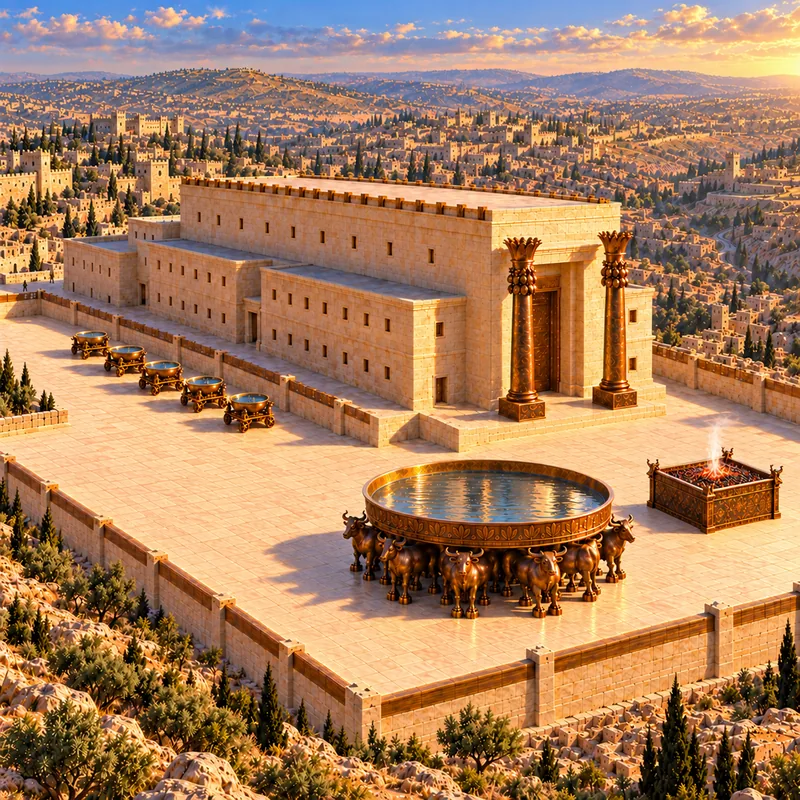
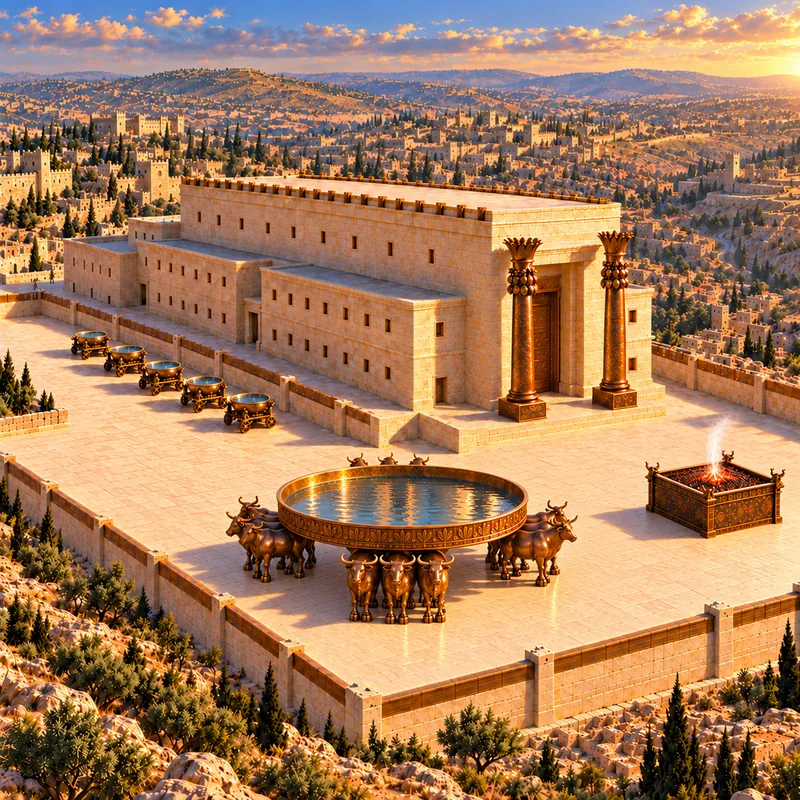
Album: tempel van Salomo vervangen (runderen in vier groepjes van drie)

diff --git a/kladblok/album-plaatjes.md b/kladblok/album-plaatjes.md
@@ -9,7 +9,7 @@ Werkwijze per plaatje (vastgesteld 29 okt 2026): eerst diepgaand onderzoek naar 
 | id | titel | bestand | gemaakt |
 |---|---|---|---|
 | tent-van-samenkomst | De tent van samenkomst | images/album/tempels/tent-van-samenkomst.webp | ChatGPT, 29 okt 2026, overzichtsversie met het kamp |
-| tempel-van-salomo | De eerste tempel (van Salomo) | images/album/tempels/tempel-van-salomo.webp | ChatGPT, 29 okt 2026, variant 5 |
+| tempel-van-salomo | De eerste tempel (van Salomo) | images/album/tempels/tempel-van-salomo.webp | ChatGPT, 29 okt 2026, nieuwe ronde (runderen in vier groepjes van drie, 1 Koningen 7:25) |
 | tempel-van-herodes | De tweede tempel (in de tijd van Jezus) | images/album/tempels/tempel-van-herodes.webp | ChatGPT, 29 okt 2026, variant 3 |
 
 Volgende reeks (idee): voorwerpen uit de tent en de tempels.
